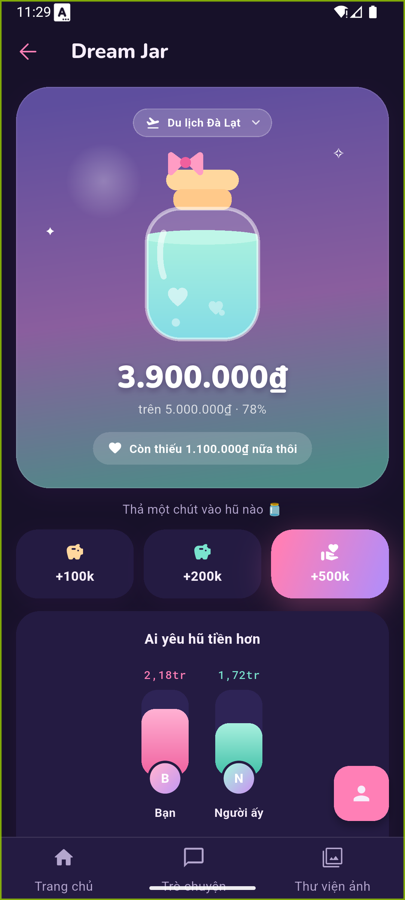
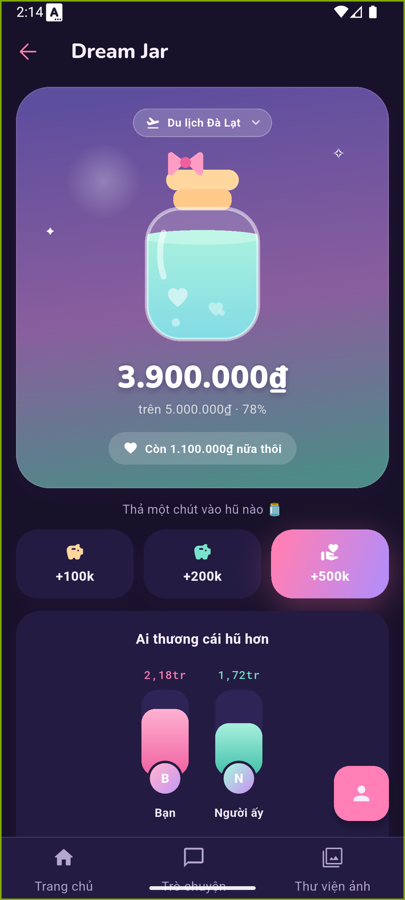
fix(STORY-027): thread the signed-in id into Dream Jar detail and correct vi copy
Round-2 rework for review findings B1/B2.

DreamJarListScreen never passed currentUserId to DreamJarDetailScreen on
either real call site, so PartnerSplitTotals.of attributed the whole jar to
the partner in the shipped app. The list screen now resolves the id from
getIt<BackendUserIdStore> (the ExpensesEntryPoint precedent, since HomeScreen
has none to thread) and passes it to the single-jar shortcut and the jar-card
route; this also gives ContributionHistoryScreen its self id.

Two widget tests mount the screen through its production wiring with no
currentUserId override and assert the split attribution; both fail when the
fix is reverted.

Three vi strings now match the design source: dream_jar_remaining,
dream_jar_partner_split_title, dream_jar_completed.

Visual evidence re-captured after the fixes and the report's verdict, delta
table, and regression guard restated; adds the Entry Point Reachability
section.

Claude-Session: https://claude.ai/code/session_01WosZ7xS8zWqvZr1aJPa2rP

diff --git a/mobile/test/features/dream_jar/presentation/dream_jar_list_screen_test.dart b/mobile/test/features/dream_jar/presentation/dream_jar_list_screen_test.dart
@@ -1,4 +1,6 @@
+import 'package:cupid_mobile/core/di/service_locator.dart';
 import 'package:cupid_mobile/core/network/cupid_api.dart';
+import 'package:cupid_mobile/core/realtime/backend_user_id_store.dart';
 import 'package:cupid_mobile/design_system/design_system.dart';
 import 'package:cupid_mobile/features/dream_jar/data/dream_jar.dart';
 import 'package:cupid_mobile/features/dream_jar/data/dream_jar_repository.dart';
@@ -13,9 +15,13 @@ import 'package:flutter_test/flutter_test.dart';
 /// file per this repo's existing per-file fake convention
 /// (`test/features/auth/presentation/*_test.dart`).
 class _FakeDreamJarRepository extends DreamJarRepository {
-  _FakeDreamJarRepository(this._fetchJars) : super(CupidApiClient.create());
+  _FakeDreamJarRepository(
+    this._fetchJars, {
+    this.contributions = const <Contribution>[],
+  }) : super(CupidApiClient.create());
 
   final Future<List<DreamJar>> Function() _fetchJars;
+  final List<Contribution> contributions;
 
   @override
   Future<List<DreamJar>> fetchJars({int limit = 50, int offset = 0}) =>
@@ -37,8 +43,21 @@ class _FakeDreamJarRepository extends DreamJarRepository {
     String jarId, {
     int limit = 50,
     int offset = 0,
-  }) async => <Contribution>[];
+  }) async => contributions;
 }
+
+Contribution _contribution({
+  required String id,
+  required String userId,
+  required num amount,
+}) => Contribution(
+  id: id,
+  dreamJarId: 'jar-1',
+  userId: userId,
+  amount: amount,
+  note: null,
+  createdAt: DateTime(2026, 1, 1),
+);
 
 DreamJar _jar({
   String id = 'jar-1',
@@ -78,6 +97,18 @@ Widget _harness(DreamJarRepository repository) {
 }
 
 void main() {
+  // `DreamJarListScreen` resolves the signed-in id from the composition root
+  // (`HomeScreen` has none to thread), so registering the real store here
+  // exercises the production wiring rather than an injected test id.
+  setUp(() {
+    getIt.registerSingleton<BackendUserIdStore>(
+      BackendUserIdStore()
+        ..updateFromLoginResponse(<String, Object?>{'id': 'me'}),
+    );
+  });
+
+  tearDown(getIt.reset);
+
   testWidgets('shows the empty state when there are no jars', (tester) async {
     final repository = _FakeDreamJarRepository(() async => <DreamJar>[]);
 
@@ -154,6 +185,54 @@ void main() {
       await tester.pumpAndSettle();
 
       expect(find.byType(DreamJarDetailScreen), findsOneWidget);
+    },
+  );
+
+  testWidgets(
+    'single-jar bypass attributes the comparison card to the signed-in user',
+    (tester) async {
+      final repository = _FakeDreamJarRepository(
+        () async => <DreamJar>[_jar()],
+        contributions: <Contribution>[
+          _contribution(id: 'c1', userId: 'me', amount: 2180000),
+          _contribution(id: 'c2', userId: 'partner', amount: 1720000),
+        ],
+      );
+
+      await tester.pumpWidget(_harness(repository));
+      await tester.pump();
+      await tester.pump();
+
+      expect(find.text('2,18tr'), findsOneWidget);
+      expect(find.text('1,72tr'), findsOneWidget);
+      expect(find.text("You're 460.000₫ ahead"), findsOneWidget);
+    },
+  );
+
+  testWidgets(
+    'jar card tap attributes the comparison card to the signed-in user',
+    (tester) async {
+      final repository = _FakeDreamJarRepository(
+        () async => <DreamJar>[
+          _jar(id: 'jar-1', name: 'Trip to Da Lat'),
+          _jar(id: 'jar-2', name: 'New Bike'),
+        ],
+        contributions: <Contribution>[
+          _contribution(id: 'c1', userId: 'me', amount: 2180000),
+          _contribution(id: 'c2', userId: 'partner', amount: 1720000),
+        ],
+      );
+
+      await tester.pumpWidget(_harness(repository));
+      await tester.pump();
+      await tester.pump();
+
+      await tester.tap(find.text('New Bike'));
+      await tester.pumpAndSettle();
+
+      expect(find.text('2,18tr'), findsOneWidget);
+      expect(find.text('1,72tr'), findsOneWidget);
+      expect(find.text("You're 460.000₫ ahead"), findsOneWidget);
     },
   );
 

diff --git a/mobile/lib/features/dream_jar/presentation/screens/dream_jar_list_screen.dart b/mobile/lib/features/dream_jar/presentation/screens/dream_jar_list_screen.dart
@@ -1,3 +1,5 @@
+import 'package:cupid_mobile/core/di/service_locator.dart';
+import 'package:cupid_mobile/core/realtime/backend_user_id_store.dart';
 import 'package:cupid_mobile/design_system/design_system.dart';
 import 'package:flutter/material.dart';
 import 'package:flutter_bloc/flutter_bloc.dart';
@@ -14,6 +16,12 @@ import 'dream_jar_detail_screen.dart';
 /// STORY-014 P3 jar collection screen (`ux/uiux-spec.md` §1.2, §1.5).
 /// [repository] is passed in directly, not resolved via `getIt`: P5 (Home
 /// entry point) owns the `getIt` registration and navigation route.
+///
+/// The signed-in backend id is the exception: `HomeScreen` has none to thread,
+/// so this screen resolves it from `getIt` (the `ExpensesEntryPoint`
+/// precedent) and passes it to every [DreamJarDetailScreen] it opens —
+/// without it the per-partner comparison attributes the whole jar to the
+/// partner.
 class DreamJarListScreen extends StatelessWidget {
   const DreamJarListScreen({super.key, required this.repository});
 
@@ -23,15 +31,22 @@ class DreamJarListScreen extends StatelessWidget {
   Widget build(BuildContext context) {
     return BlocProvider<DreamJarListCubit>(
       create: (_) => DreamJarListCubit(repository)..load(),
-      child: _DreamJarListView(repository: repository),
+      child: _DreamJarListView(
+        repository: repository,
+        currentUserId: getIt<BackendUserIdStore>().backendUserId,
+      ),
     );
   }
 }
 
 class _DreamJarListView extends StatelessWidget {
-  const _DreamJarListView({required this.repository});
+  const _DreamJarListView({
+    required this.repository,
+    required this.currentUserId,
+  });
 
   final DreamJarRepository repository;
+  final String? currentUserId;
 
   @override
   Widget build(BuildContext context) {
@@ -45,6 +60,7 @@ class _DreamJarListView extends StatelessWidget {
           return DreamJarDetailScreen(
             jarId: state.jars.single.id,
             repository: repository,
+            currentUserId: currentUserId,
           );
         }
 
@@ -77,6 +93,7 @@ class _DreamJarListView extends StatelessWidget {
               DreamJarListReady(jars: final jars) => _JarListBody(
                 jars: jars,
                 repository: repository,
+                currentUserId: currentUserId,
               ),
             },
           ),
@@ -191,10 +208,15 @@ class _EmptyJarsView extends StatelessWidget {
 }
 
 class _JarListBody extends StatelessWidget {
-  const _JarListBody({required this.jars, required this.repository});
+  const _JarListBody({
+    required this.jars,
+    required this.repository,
+    required this.currentUserId,
+  });
 
   final List<DreamJar> jars;
   final DreamJarRepository repository;
+  final String? currentUserId;
 
   @override
   Widget build(BuildContext context) {
@@ -218,8 +240,11 @@ class _JarListBody extends StatelessWidget {
             jar: jar,
             onTap: () => Navigator.of(context).push(
               MaterialPageRoute<void>(
-                builder: (_) =>
-                    DreamJarDetailScreen(jarId: jar.id, repository: repository),
+                builder: (_) => DreamJarDetailScreen(
+                  jarId: jar.id,
+                  repository: repository,
+                  currentUserId: currentUserId,
+                ),
               ),
             ),
           );

diff --git a/data/requirements/REQ-002_screen_flow_and_design_fidelity_audit/STORY-027_dream_jar_design_fidelity/visual-fidelity/visual-fidelity-report.md b/data/requirements/REQ-002_screen_flow_and_design_fidelity_audit/STORY-027_dream_jar_design_fidelity/visual-fidelity/visual-fidelity-report.md
@@ -2,6 +2,17 @@ VISUAL_FIDELITY: PASS
 
 # STORY-027 — Dream Jar visual fidelity
 
+Verdict restated for round 2 against the re-captured
+`implemented-jar-emulator-5554.png` (taken after the A1 wiring fix and the A3
+`vi` copy corrections). Every surface this story owns — header, hero card, jar
+illustration, remaining pill, quick-add section, per-partner comparison card —
+now matches `design-reference-jar-android.png` with no visible deviation. The
+two copy strings that made round 1's `PASS` unsupportable (`Còn thiếu …` and
+`Ai yêu hũ tiền hơn`) are corrected and visibly correct in the new capture. The
+only differences still visible between the two images are the app-shell tab bar
+and its floating action button, which belong to other REQ-002 stories and are
+recorded as reviewer-deferred D3.
+
 | Field | Value |
 | --- | --- |
 | Canvas screen id | `jar` |
@@ -49,6 +60,10 @@ result.
 | 11 | Comparison card | Leading bar fills 78% of the track, the other scales off it (62% for the 0.789 ratio) | Leading bar filled 100%, leaving no visible track | `_leadFillFraction = 0.78` |
 | 12 | Comparison card | Compact amounts `2,18tr` / `1,72tr` | `2.180.000₫` | `DreamJarAmountFormat.compact` |
 | 13 | Data | Comparison needs per-contributor totals | The screen never loaded contributions | `DreamJarDetailCubit._loadContributions()` — best-effort, after the jar is already on screen, so a slow or failing call never delays or breaks the jar |
+| 14 | Hero remaining pill | `Còn 1.100.000₫ nữa thôi` | `Còn thiếu 1.100.000₫ nữa thôi` | `app_vi.arb` `dream_jar_remaining` (round 2, A3) — visible in the refreshed capture |
+| 15 | Comparison card title | `Ai thương cái hũ hơn` | `Ai yêu hũ tiền hơn` | `app_vi.arb` `dream_jar_partner_split_title` (round 2, A3) — visible in the refreshed capture |
+| 16 | Jar-full pill | `Đầy rồi! Đặt vé thôi` | `Đầy rồi! Đặt vé thôi nào` | `app_vi.arb` `dream_jar_completed` (round 2, A3) — the 100% state is not the captured state, so this one is verified in the ARB source against the design string, not in the image |
+| 17 | Comparison data on the real route | Split attributed to the signed-in user | `DreamJarListScreen` never passed `currentUserId`, so `PartnerSplitTotals.of` gave the whole jar to the partner in the shipped app | `dream_jar_list_screen.dart` now resolves `getIt<BackendUserIdStore>().backendUserId` and passes it to both `DreamJarDetailScreen` call sites (round 2, A1); this also gives `ContributionHistoryScreen` its self id |
 
 ## Verified matching
 
@@ -60,14 +75,10 @@ dark-theme colour set. No clipping or overflow at 412×915.
 
 ## Deltas NOT corrected
 
-**DEFERRED — copy lives in `mobile/lib/l10n/arb/`, outside this story's write
-scope.** A scope extension was requested and not granted; the exact edits are:
-
-| ARB key | Current `vi` | Design `vi` |
-| --- | --- | --- |
-| `dream_jar_remaining` | `Còn thiếu {amount} nữa thôi` | `Còn {amount} nữa thôi` |
-| `dream_jar_completed` | `Đầy rồi! Đặt vé thôi nào` | `Đầy rồi! Đặt vé thôi` |
-| `dream_jar_partner_split_title` | `Ai yêu hũ tiền hơn` | `Ai thương cái hũ hơn` |
+**Round 1's three deferred `vi` copy deltas are now corrected** (rows 14-16
+above). Round 2 extended the write scope to `mobile/lib/l10n/arb`, so the
+deferral no longer applies and nothing in this story's own surfaces is left
+uncorrected.
 
 The one design string with no ARB key at all (`Thả một chút vào hũ nào 🫙`)
 does render correctly — it uses the in-repo `chat_strings.dart` `viEn`
@@ -85,6 +96,23 @@ precedent via `dream_jar_strings.dart`.
 - Partner display names: the canvas shows "Minh"/"Linh", but `Contribution`
   carries only `userId` with no name on this screen, so the localized role
   labels ("Bạn"/"Người ấy") and their initials are used.
+
+## Entry Point Reachability
+
+Reachable: YES
+
+Path: Home → Dream Jar list → tap a jar card → Dream Jar detail.
+
+| Step | Code |
+| --- | --- |
+| Home entry affordance pushes the jar list | `home_screen.dart:123` → `DreamJarListScreen` |
+| Jar card tap pushes the detail screen | `dream_jar_list_screen.dart` `_JarCard.onTap` → `DreamJarDetailScreen` |
+| One non-archived jar skips the list | `dream_jar_list_screen.dart` `DreamJarListReady && jars.length == 1` → `DreamJarDetailScreen` |
+
+Both are real, visible list actions rather than a URL-only route, and this diff
+does not add or move an entry point, matching AC5. Both hops are now covered by
+`dream_jar_list_screen_test.dart` ("single-jar bypass …" and "jar card tap …"),
+which mount the screen through its production wiring.
 
 ## How the capture was reached
 
@@ -108,7 +136,21 @@ repo's design-fidelity precedent asserts structural values rather than
 `chat_design_fidelity_test.dart`); this file follows it, so it needs no
 `--update-goldens` baseline and costs no image tokens to run.
 
-`flutter test test/features/dream_jar test/design_system` → 113 passing.
+Round 2 adds two tests in
+`test/features/dream_jar/presentation/dream_jar_list_screen_test.dart` that
+guard row 17 on both real call sites — "single-jar bypass attributes the
+comparison card to the signed-in user" and "jar card tap attributes the
+comparison card to the signed-in user". They mount `DreamJarListScreen` through
+its production wiring with no `currentUserId` override, register the real
+`BackendUserIdStore` in `getIt`, and assert `2,18tr` / `1,72tr` / "You're
+460.000₫ ahead". Both were confirmed to fail (`Found 0 widgets with text
+"2,18tr"`) when the fix is reverted to `currentUserId: null`.
+
+`flutter test test/features/dream_jar test/design_system` → 115 passing.
 `flutter analyze lib/features/dream_jar lib/design_system lib/main_preview.dart
 test/features/dream_jar` → 2 pre-existing `prefer_initializing_formals` infos
 in the untouched `contribution_history_cubit.dart`; nothing new.
+`flutter build apk --debug --dart-define=PREVIEW=jar
+--dart-define=PREVIEW_JAR_FIXTURE=design -t lib/main_preview.dart` → built, and
+that build is what produced the refreshed capture
+(`MOBILE_CAPTURE: OK … implemented-jar-emulator-5554.png 405x900 141083`).
